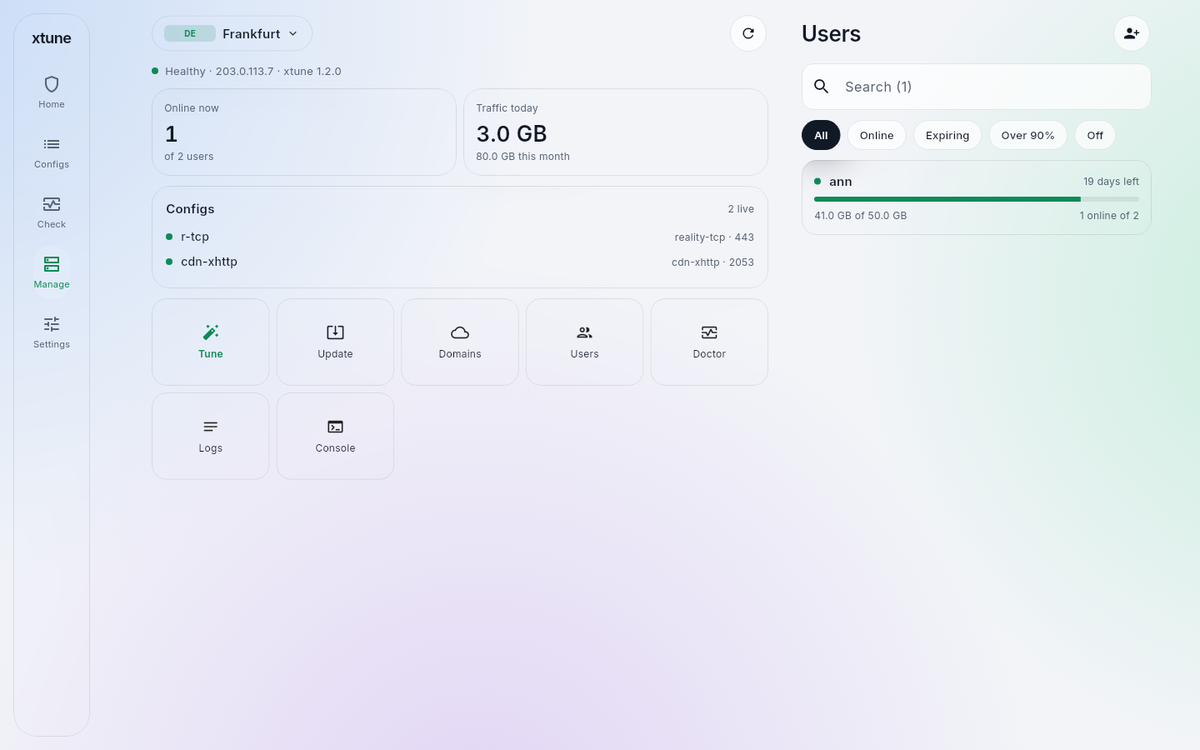
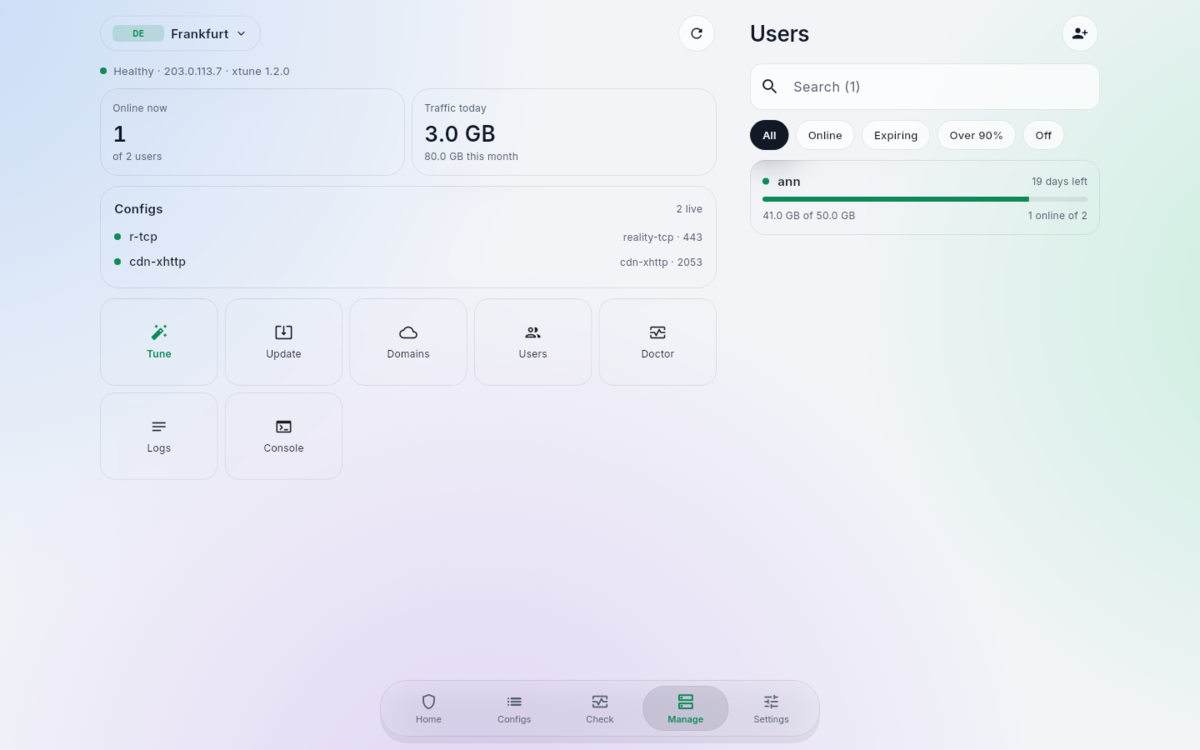
README: the route map screenshot; the wide screen with the bottom tab bar
The route shot comes from the route map test (SHOTS=1), which now has
a fuller subscription: usage, a third server, labels.

diff --git a/app/test/route_map_test.dart b/app/test/route_map_test.dart
@@ -16,12 +16,14 @@ Sub sub() => Sub(
   url: 'https://sub.example/p/token',
   fetched: DateTime.now(),
   profile: {
-    'name': 'Home',
+    'name': 'DE · dev',
     'country': 'ir',
+    'usage': {'up': 2 << 30, 'down': 16 << 30, 'quota': 50 << 30, 'devices': 2},
     'configs': [
-      {'id': 'a', 'name': '🇮🇷→🇳🇱 Reality', 'kind': 'reality-tcp', 'engine': 'xray', 'server': '198.51.100.1'},
-      {'id': 'b', 'name': '🇩🇪 XHTTP', 'kind': 'cdn-xhttp', 'engine': 'xray', 'server': '203.0.113.7'},
-      {'id': 'c', 'name': 'IR→FI ws', 'kind': 'ws', 'engine': 'xray', 'server': '198.51.100.2'},
+      {'id': 'a', 'name': '🇮🇷→🇳🇱 Reality', 'label': 'REALITY TCP', 'kind': 'reality-tcp', 'engine': 'xray', 'server': '198.51.100.1'},
+      {'id': 'b', 'name': '🇩🇪 XHTTP', 'label': 'CDN XHTTP', 'kind': 'cdn-xhttp', 'engine': 'xray', 'server': '203.0.113.7'},
+      {'id': 'e', 'name': '🇫🇷 Hysteria2', 'label': 'Hysteria2', 'kind': 'hysteria2', 'engine': 'xray', 'server': '203.0.113.20'},
+      {'id': 'c', 'name': 'IR→FI ws', 'label': 'VLESS WS', 'kind': 'ws', 'engine': 'xray', 'server': '198.51.100.2'},
       {'id': 'd', 'name': 'no flag here', 'kind': 'ws', 'engine': 'xray', 'server': '192.0.2.9'},
     ],
   },
@@ -53,10 +55,12 @@ void main() {
       ..subs = [sub()]
       ..status = {
         'running': true,
+        'since': DateTime.now().millisecondsSinceEpoch ~/ 1000 - 754,
         'active': 'a',
         'outbounds': [
           {'id': 'a', 'alive': true, 'delayMs': 120},
           {'id': 'b', 'alive': true, 'delayMs': 90},
+          {'id': 'e', 'alive': true, 'delayMs': 150},
           {'id': 'c', 'alive': false, 'delayMs': 0},
         ],
       };
@@ -73,9 +77,12 @@ void main() {
     expect(find.text('—'), findsWidgets, reason: 'a route that does not work');
     if (shots) await expectLater(find.byType(MaterialApp), matchesGoldenFile('shots/route-map.png'));
     // tapping a route picks its config
-    await t.drag(find.byType(Scrollable).first, const Offset(0, -400));
+    await t.drag(find.byType(Scrollable).first, const Offset(0, -418));
     await settle(t);
-    if (shots) await expectLater(find.byType(RouteMap), matchesGoldenFile('shots/route-map-card.png'));
+    if (shots) {
+      await expectLater(find.byType(RouteMap), matchesGoldenFile('shots/route-map-card.png'));
+      await expectLater(find.byType(MaterialApp), matchesGoldenFile('shots/route.png'));
+    }
     await t.tap(find.text('64 + ≈26 = 90 ms'));
     await t.pump();
     expect(s.settings.selected, 'b');

diff --git a/README.md b/README.md
@@ -21,18 +21,21 @@ The app for [xtune](https://github.com/chethober/xtune) servers, on **Android, L
 
 <p align="center">
   <img src="docs/screenshots/home.png" width="200" alt="Home: connected with Auto, the config in use and the subscription's usage">
+  <img src="docs/screenshots/route.png" width="200" alt="The route map: you, the relay and the server, with the delay of each hop">
   <img src="docs/screenshots/configs.png" width="200" alt="Configs: every config with its latency on this network">
-  <img src="docs/screenshots/check.png" width="200" alt="Check: which configs work, are throttled or blocked here">
-  <img src="docs/screenshots/tune.png" width="200" alt="Tune: the server's test configs measured from the phone, ready to deploy">
 </p>
 <p align="center">
+  <img src="docs/screenshots/check.png" width="200" alt="Check: which configs work, are throttled or blocked here">
+  <img src="docs/screenshots/tune.png" width="200" alt="Tune: the server's test configs measured from the phone, ready to deploy">
   <img src="docs/screenshots/users.png" width="200" alt="Users: quotas, expiry and who is online">
+</p>
+<p align="center">
   <img src="docs/screenshots/settings.png" width="200" alt="Settings: mode, theme, accent colour and connection options">
   <img src="docs/screenshots/lock.png" width="200" alt="The app lock">
   <img src="docs/screenshots/persian.png" width="200" alt="The connection timeline in Persian, with Persian digits and dates">
 </p>
 <p align="center">
-  <img src="docs/screenshots/desktop.png" width="820" alt="On a wide screen: the server's dashboard with its users beside it">
+  <img src="docs/screenshots/desktop.png" width="820" alt="On a wide screen: the server's dashboard with its users beside it, the tab bar at the bottom">
 </p>
 
 ## Install
